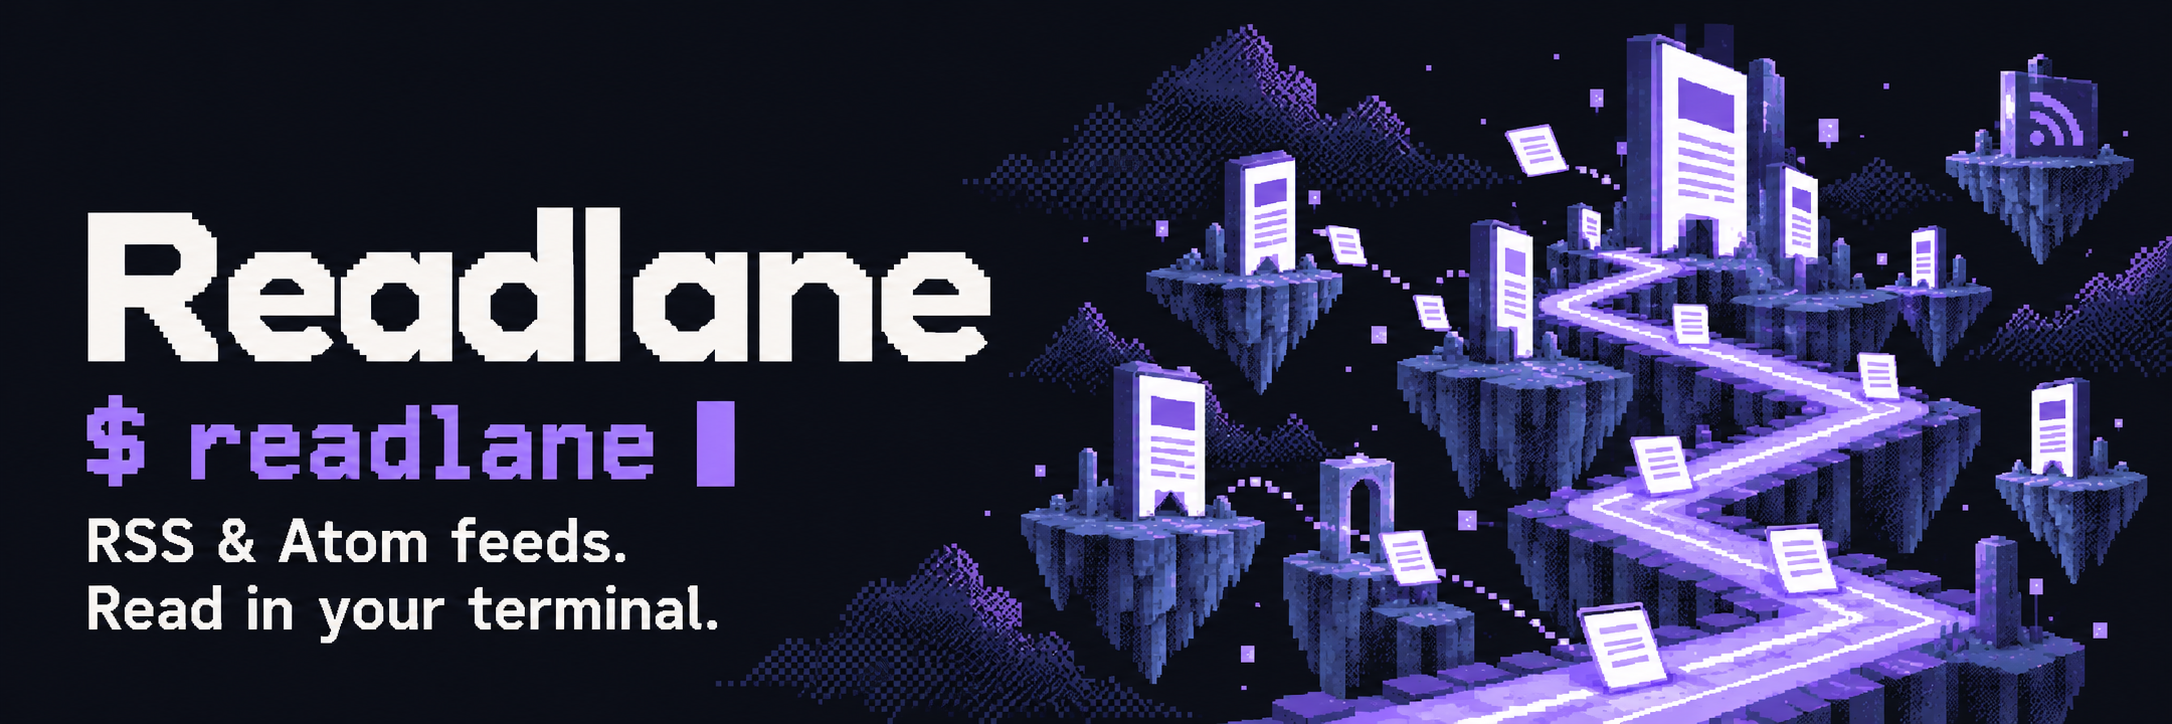
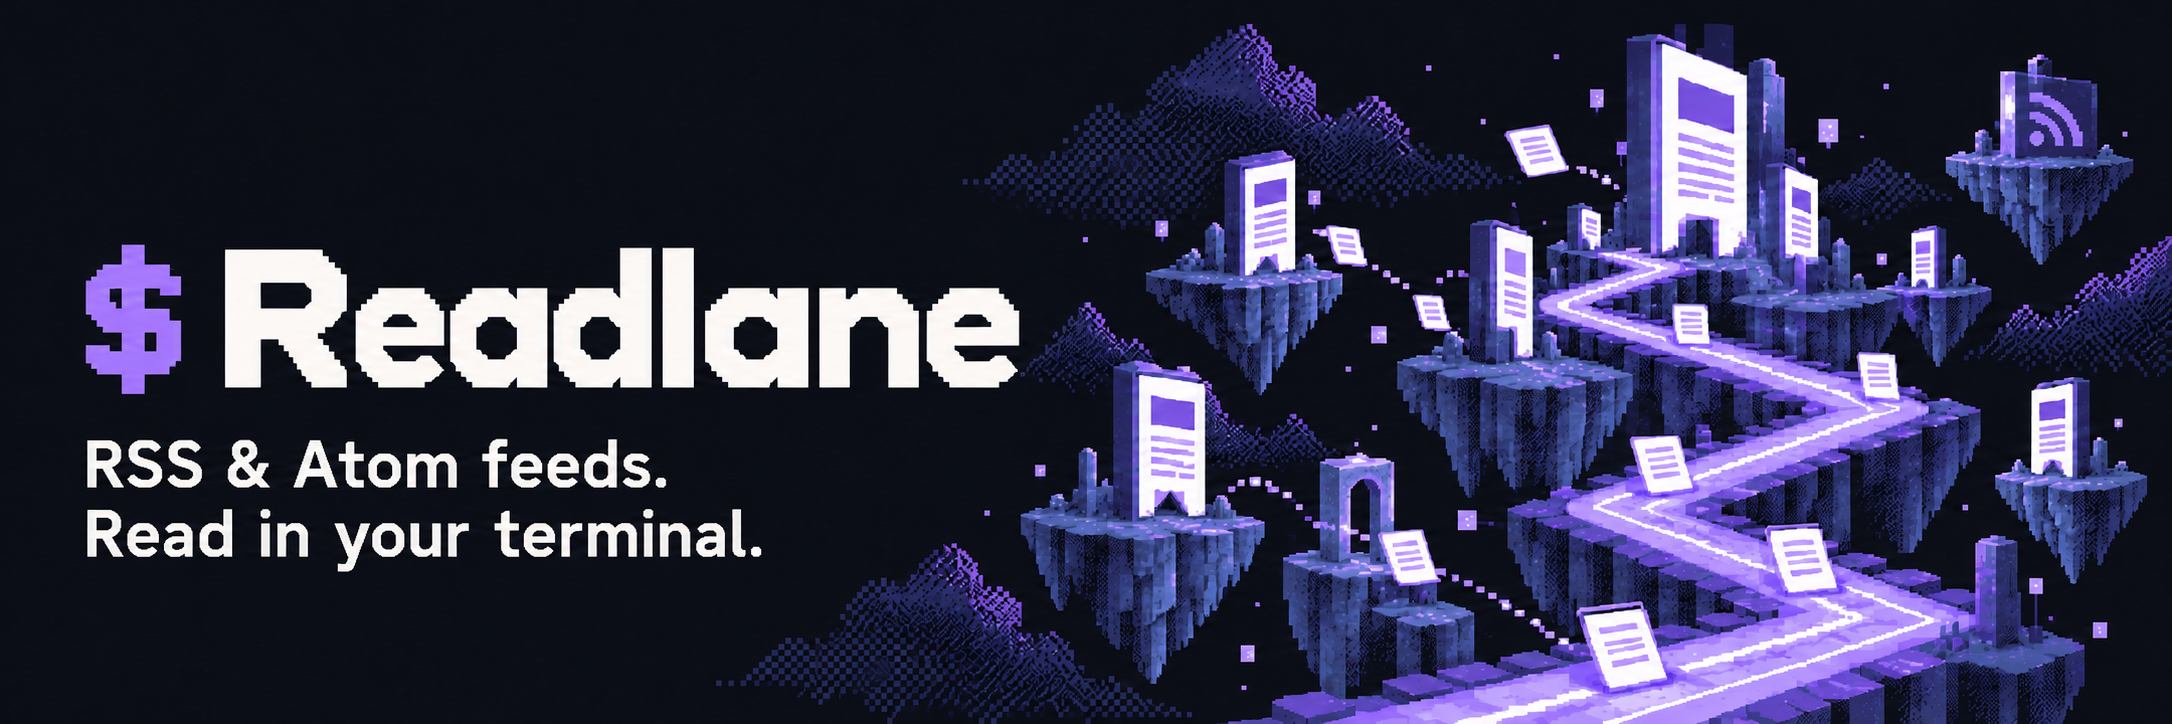
Unify the dollar prompt and Readlane cover title

diff --git a/docs/brand.md b/docs/brand.md
@@ -17,7 +17,7 @@ numbers that the application does not support.
 The cover imagines a reading world inside a terminal: article-shaped towers,
 bookmark silhouettes, and floating blog posts joining one violet lane. The
 pixel-art RSS sign connects the world to feeds. A large Readlane wordmark,
-a dollar-prefixed readlane command with cursor, and the purpose line
+a unified dollar-prefixed title, and the purpose line
 “RSS & Atom feeds. Read in your terminal.” explain the product without
 reproducing a screen.
 Product text uses concrete labels:
@@ -32,7 +32,7 @@ fonts; terminals use their user's own typeface. OFL license files are bundled.
 
 The built-in image generation tool produced the cover. The final prompt was:
 
-> Use case: ads-marketing. Edit target: supplied Readlane pixel-art README cover. Improve this successful concept, preserving the wide 3:1 composition, dark midnight canvas, violet and lilac limited palette, crisp chunky pixel art with dithered depth, floating islands, winding reading lane, and very large readable off-white "Readlane" wordmark on the left. Tie the right-hand digital world specifically to collecting and reading blogs: transform several abstract towers into elegant upright PIXEL ARTICLE PANELS with a bold headline bar and a few short horizontal pixel lines, no tiny legible text. Give a few panels bookmark-shaped silhouettes with a notched bottom. A few small pixel pages travel from separate floating islands into the central violet lane, suggesting chosen blog feeds coming together. Integrate a single subtle recognizable RSS broadcast glyph into a distant panel or sign, violet rather than orange. Keep the world abstract and imaginative, not a literal screenshot, not realistic books or a physical library, no browser chrome. Fewer, larger meaningful forms rather than clutter. LEFT typography hierarchy: preserve giant perfectly spelled "Readlane" as primary. Beneath it, put exactly "$ readlane" in medium-large lavender monospace pixel type, followed by a clearly separated solid block cursor. Beneath that put the exact purpose line "RSS & Atom feeds." and on the next line "Read in your terminal." in clean, bright off-white readable sans-serif type, NOT tiny or dim. Those two purpose lines should be at least half the height of the command letters; generous vertical spacing, clear hierarchy, all text on quiet empty dark background. Do not let any landscape overlap the text. Exact text only: "Readlane", "$ readlane", "RSS & Atom feeds.", "Read in your terminal.". No other words. Keep all text easily readable at a 700px total image width. Premium indie-game title art meets considered developer tool. No blur, no glow haze, no scanlines, no gradient backgrounds, no green hacker code, no watermark. Opaque background.
+> Use case: precise-object-edit. Edit the supplied Readlane pixel-world cover. Preserve the right-hand pixel-art reading world exactly: article panels, bookmark towers, floating posts, RSS sign, violet pathway, dark palette and crisp pixel style. Improve ONLY the left typography into a confident unified title. Remove both the existing large "Readlane" and the separate "$ readlane" command. Replace them with ONE single large wordmark reading exactly "$ Readlane", all on one horizontal baseline, with a lavender dollar prompt and bright off-white Readlane in the same bold readable pixel-edged lettering as the current title. Dollar symbol approximately 65 percent the title height, visually integrated with generous one-character spacing; entire title occupies left 46 percent of canvas without touching the world. Name is displayed ONCE only. No cursor attached to the title. Beneath the title preserve the two-line clear purpose statement exactly "RSS & Atom feeds." then "Read in your terminal.", slightly larger than current if space allows, off-white, generous line spacing. Position the left text block vertically centered as one cohesive lockup. No redundant command, no repeated name, no extra text. Keep Readlane perfectly spelled and very readable at 700px overall width, normal recognizable lowercase l. Keep all illustration, dimensions, palette and background unchanged. Opaque background.
 
 The selected PNG was inspected for spelling and composition, then converted
 without resizing or cropping:

diff --git a/readme-assets/STYLE.md b/readme-assets/STYLE.md
@@ -9,8 +9,8 @@ constants, web CSS tokens, and the palette of the canonical README SVG icons.
 - Terminal dark variants retain readable violet, ink, and supporting text.
 
 The 2172×724 README cover depicts pixel-art article towers and blog posts
-joining a violet reading lane. The large **Readlane** wordmark, dollar-prefixed
-command, and “RSS & Atom feeds. Read in your terminal.” line state its purpose.
+joining a violet reading lane. The unified **$ Readlane** wordmark
+and “RSS & Atom feeds. Read in your terminal.” line state its purpose.
 It was generated using the built-in image tool. See the [brand guide](../docs/brand.md)
 for its prompt and production record. The WebP is lossless; no resize or crop
 was applied. Its only descriptive metadata is:

diff --git a/DESIGN.md b/DESIGN.md
@@ -64,7 +64,7 @@
 A quiet reading lane inside the terminal: aligned monospace text, a violet
 selection, and visible keyboard controls. The cover imagines a pixel reading world
 inside a dark terminal: articles join a violet lane, with a large wordmark,
-dollar-prefixed command, and clear RSS/Atom purpose line. Product screens stay quiet so the
+integrated dollar prompt, and clear RSS/Atom purpose line. Product screens stay quiet so the
 stories carry the attention.
 
 ### Product context and register

diff --git a/README.md b/README.md
@@ -1,4 +1,4 @@
-![Readlane — RSS & Atom feeds. Read in your terminal. Pixel-art articles join a violet reading lane beside the dollar-prefixed readlane command.](readme-assets/readlane-cover.webp)
+![Readlane — RSS & Atom feeds. Read in your terminal. Pixel-art articles join a violet reading lane beside the unified dollar-prefixed Readlane title.](readme-assets/readlane-cover.webp)
 
 # Readlane — a terminal-first feed reader
 
